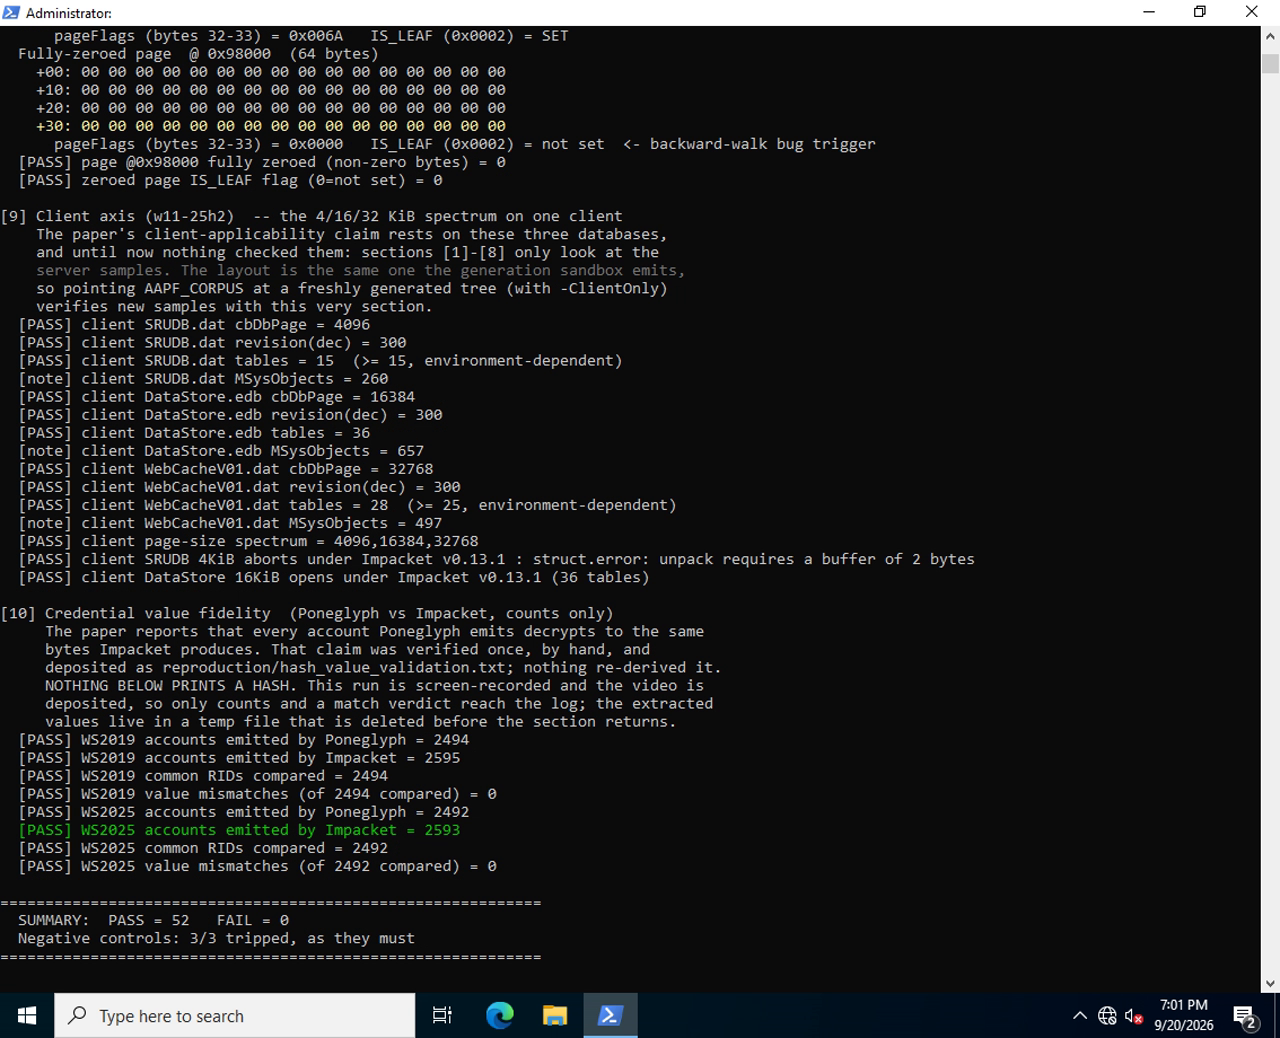
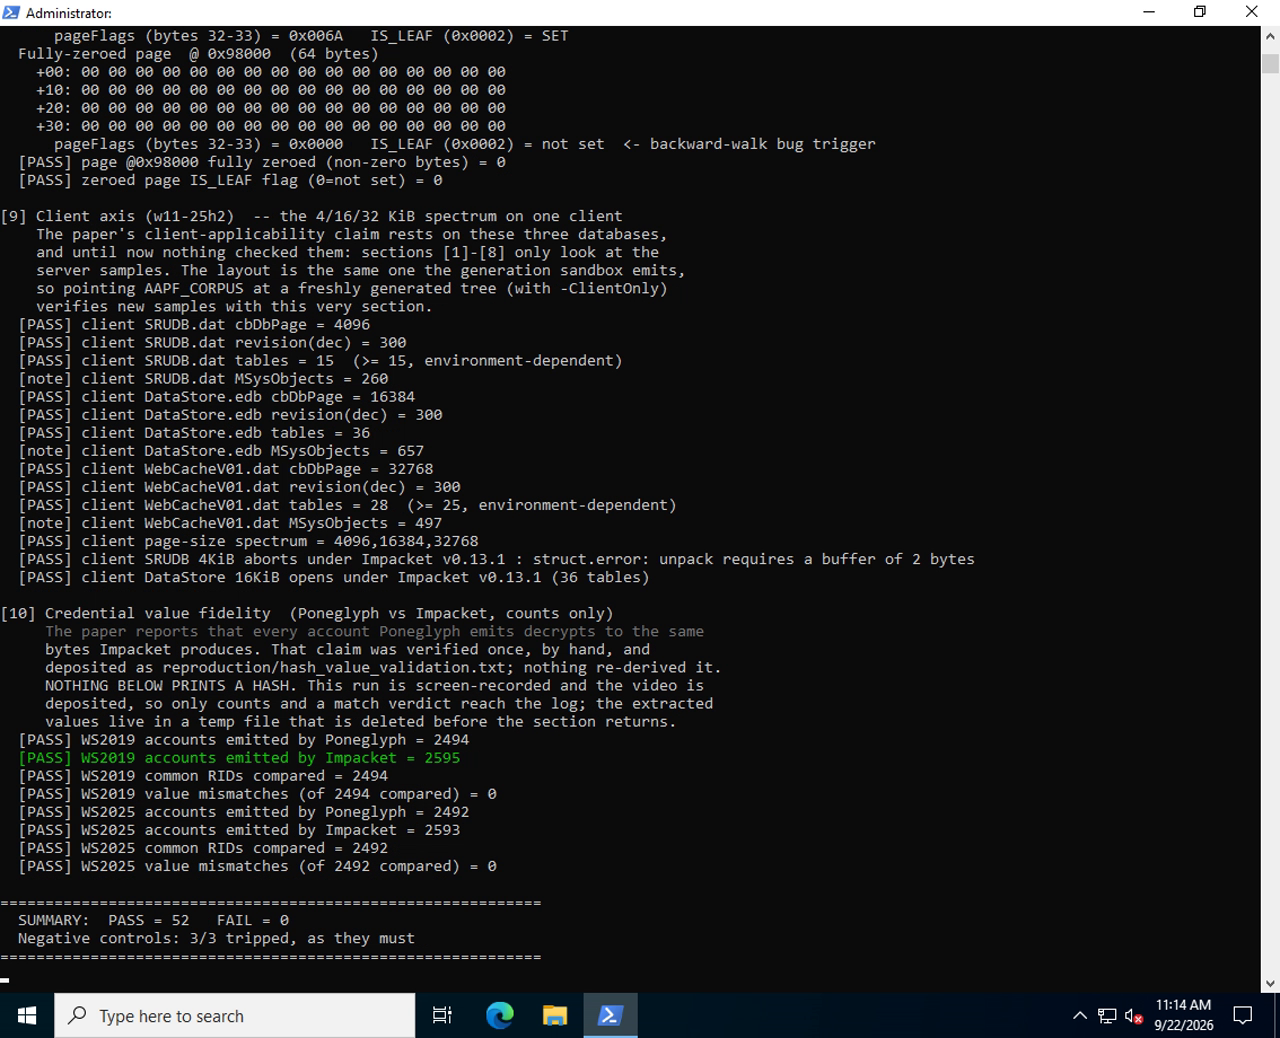
docs(reproduction): deposit the 2026-09-22 run
The sandbox was re-run after a wording fix in run-verification.ps1, so the
deposited transcript again comes from the script this record ships: 52 PASS,
0 FAIL, negative controls 3/3, credential comparison re-derived over 2,494 and
2,492 RIDs with no mismatches.

Every measured value matches the 2026-09-20 run exactly; only the timestamp
and two corrected sentences differ. The frames are re-extracted and now cover
the itagState interpretation as well, so no section is missing from them.

diff --git a/reproduction/VERIFICATION.md b/reproduction/VERIFICATION.md
@@ -54,12 +54,13 @@ Table 1 and Table 5.
 
 ![Page sizes and counts](verification-evidence/01-page-sizes-and-counts.png)
 
-### 2 — Figures 3/4/5: page partition and page hex (sections [7]–[8])
-The Figure 5 page partition (misread `N = 4106` against the correct `N = 10`) and
-the Figure 3 *normal* (`0x18000`) vs *fully-zeroed* (`0x98000`) page headers, read
-from the real sample.
+### 2 — `itagState` and Figures 2/3/5 (sections [5]–[8])
+The `itagState` hex per artifact (all upper-nibble `ctagReserved = 0x1`), the
+Figure 2 bit-field interpretation, the Figure 5 page partition (misread
+`N = 4106` against the correct `N = 10`), and the Figure 3 *normal* (`0x18000`)
+vs *fully-zeroed* (`0x98000`) page headers, read from the real sample.
 
-![Figure 5 partition and page hex comparison](verification-evidence/02-figures-3-4-5-page-hex.png)
+![itagState interpretation, page partition and page hex](verification-evidence/02-itagstate-and-figures-2-3-5.png)
 
 ### 3 — Client axis, credential value fidelity, and final summary (sections [9]–[10] + SUMMARY)
 The 4/16/32 KiB client spectrum, the Poneglyph-vs-Impacket credential comparison
@@ -90,15 +91,15 @@ The illustrative page is page 4 (`0x18000 = 3 × 32768`) of
 
 ## Full text log
 
-The complete console transcript of the run recorded on 2026-09-20 (sections
+The complete console transcript of the run recorded on 2026-09-22 (sections
 `[0]`–`[10]`, UTF-16) is
 [`verification-evidence/verification-final-52pass.log`](verification-evidence/verification-final-52pass.log).
-The console scrolls during the run, so the three frames above are excerpts: the
-`itagState` sections `[3]`, `[5]` and `[6]` are in the log and the video.
+The three frames above cover every section between them; the log holds the run
+in full.
 
 ## Video
 
-The full screen recording of the run (`[0]`–`[10]` in a live console, 8 min 18 s) is
+The full screen recording of the run (`[0]`–`[10]` in a live console, 1 min 01 s) is
 `verification-evidence/verification-final-52pass.mp4`. It is distributed with the
 **Zenodo record only** (kept out of the Git repository for size); the three
 screenshots above are frames extracted from it.
